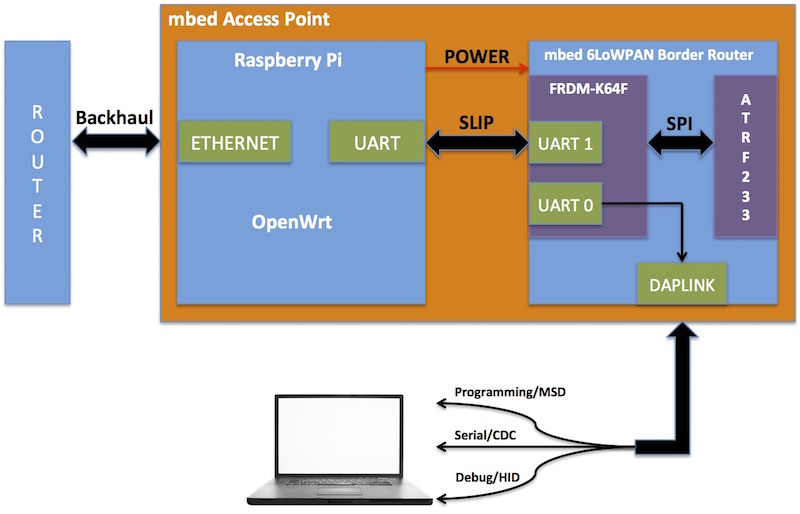
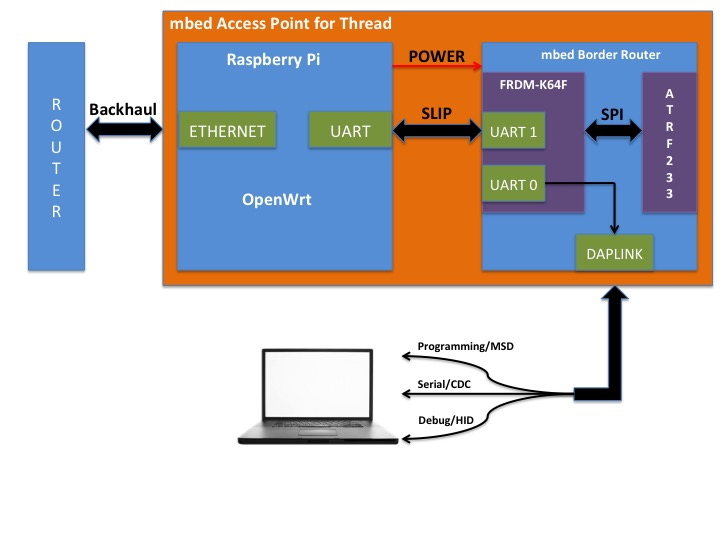
[mbed access point] Added documentation for mbed Access Point for Thread The README.md file is updated and it describes the steps needed to build an mbed Access Point for Thread and Thread network.

diff --git a/README.md b/README.md
@@ -1,10 +1,10 @@
 [//]: # (           Copyright (c) 2016 ARM Limited. All rights reserved.)
 
-# mbed Access Point
+# mbed Access Point for Thread network
 
-mbed Access Point is a wireless access point that manages 6LoWPAN networks. It is a combination of mbed 6LoWPAN Border Router and the Linux Router. It provides the necessary features to integrate a 6LoWPAN network into an IT environment and to cope with existing backhaul networks.   
+mbed Access Point for Thread is a wireless access point that manages Thread networks. It is a combination of mbed 6LoWPAN Border Router (Thread Border Router) and the Linux Router. It provides the necessary features to integrate a Thread network into an IT environment and to cope with existing backhaul networks.   
 
-This document provides instructions on how to build an mbed Access Point based on Raspberry Pi 2B and the [mbed 6LoWPAN Border Router](https://github.com/ARMmbed/k64f-border-router).
+This document provides instructions on how to build an mbed Access Point for Thread based on Raspberry Pi 2B and the mbed 6LoWPAN Border Router.
 
 You can:
 
@@ -13,13 +13,11 @@ You can:
 
 ## The architecture
 
-The architecture described in this document consists of two embedded boards, an mbed 6LoWPAN Border Router and a Linux Router. The motivation behind this two-board design is to achieve a mesh-agnostic mbed Access Point. With this approach it is possible to build an mbed Access Point either based on a [Thread](https://www.threadgroup.org/) or a 6LoWPAN Border Router with no (or minimal) changes to the Linux Router.
+The architecture described in this document consists of two embedded boards, an mbed 6LoWPAN Border Router and a Linux Router. The motivation behind this two-board design is to achieve a mesh-agnostic mbed Access Point. This approach enables us to build an mbed Access Point either based on a [Thread](https://www.threadgroup.org/) or a 6LoWPAN Border Router.
 
-The Border (or Edge) Router is an IPv6 router that routes between regular and 6LoWPAN network segments. 6LoWPAN is designed for highly constrained IP networking, where bandwidth or energy is in short supply. Consequently the Border Router has some additional functionality to translate between the two domains.
+The Thread Border Router is an IPv6 router that routes between regular and Thread network segments. Thread is designed for highly constrained IP networking, where bandwidth or energy is in short supply. Consequently the Thread Border Router has some additional functionality to translate between the two domains.
 
 The Linux Router is a resource-rich device capable of running Linux or a Linux-like operating system. It provides features typically expected by IT administrators, like VLAN support, authentication and authorization services, network management and logging, tunneling support, firewall and wireless mesh network management.
-
-
 
 ## Hardware components
 The figure below provides an overview of the mbed Access Point hardware components:
@@ -30,10 +28,9 @@ You will need:
 
 
 1. Raspberry Pi 2B (Linux Router).
-1. [mbed 6LoWPAN Border Router HAT](https://developer.mbed.org/components/mbed-6LoWPAN-Border-Router-HAT/).
-1. SD card.
-1. Serial-to-USB converter – to monitor and communicate with the mbed 6LoWPAN Border Router.
-1. HDMI cable.
+1. [mbed 6LoWPAN Border Router HAT](https://developer.mbed.org/platforms/mbed-6LoWPAN-Border-Router-HAT/).
+1. Micro-USB cable.
+1. Mirco-SD card.
 1. Ethernet cable.
 
 <span class="images">![](images/mbedap-raspberry-pi-mbed-border-router.jpg)</span>
@@ -52,12 +49,11 @@ We've all the hardware components needed. Let's start building our mbed Access P
 
 The pre-built image for Raspberry Pi 2B contains the necessary modules and packages to convert a Raspberry Pi into an OpenWrt-based Linux Router.
 
-The current version of mbed Access Point requires IPv6 support in backbone network to setup end-to-end communication (6LoWPAN end nodes to [mbed Device Connector](https://connector.mbed.com/)), as tunneling support is not yet available. However, the image includes a default LAN network prefix, which will be used if your backbone network only supports IPv4; it creates an isolated LAN network based on an [ULA](https://tools.ietf.org/html/rfc4193) prefix `fd00:db80::/64`, so you can set up a 6LoWPAN network without IPv6 support. In this configuration, 6LoWPAN end nodes can only exchange packets with mbed Access Point.
+The current version of mbed Access Point requires IPv6 support in backbone network to setup end-to-end communication (Thread end nodes to [mbed Device Connector](https://connector.mbed.com/)), as tunneling support is not yet available. However, the image includes a default LAN network prefix, which will be used if your backbone network only supports IPv4; it creates an isolated Thread network based on an [ULA](https://tools.ietf.org/html/rfc4193) prefix `fd00:db80::/64`, so you can set up a Thread network without IPv6 support. The limitation in this configuration is that the Thread end nodes can only talk with mbed Access Point.
 
-1. Download the mbed Access Point [image](https://s3-eu-west-1.amazonaws.com/arm-mbed-access-point-rpi-image/openwrt-r49388-brcm2708-bcm2709-rpi-2-ext4-sdcard.img).
-1. Install the image on an SD card. This [link](https://www.raspberrypi.org/documentation/installation/installing-images/) provides step by step instructions.
-1. Insert the SD card into the Raspberry Pi's SD card slot.
-1. Attach the Raspberry Pi HAT to the Raspberry Pi, so that it fits firmly on top of the GPIO headers.
+1. Download the mbed Access Point [image](https://s3-eu-west-1.amazonaws.com/arm-mbed-access-point-rpi-image/openwrt-g8996865-brcm2708-bcm2709-rpi-2-ext4-sdcard.img).
+1. Install the image on a mirco-SD card. This [link](https://www.raspberrypi.org/documentation/installation/installing-images/) provides step by step instructions.
+1. Insert the mirco-SD card into the Raspberry Pi's mirco-SD card slot.
 
 ### Generating an image from source
 
@@ -77,14 +73,13 @@ Use V=s for verbose build log:
 make V=s
 ```
 1. The generated image (.img file) is located in the directory ``./bin/brcm2708/``.
-1. Install the image on an SD card. This [link](https://www.raspberrypi.org/documentation/installation/installing-images/mac.md) provides step by step instructions.
-1. Insert the SD card into the Raspberry Pi's SD card slot.
-1. Attach the Raspberry Pi HAT to the Raspberry Pi, so that it fits firmly on top of the GPIO headers.
+1. Install the image on a mirco-SD card. This [link](https://www.raspberrypi.org/documentation/installation/installing-images/mac.md) provides step by step instructions.
+1. Insert the mirco-SD card into the Raspberry Pi's mirco-SD card slot.
 
 ## Prepare the mbed 6LoWPAN Border Router
 
 ### The DAPLink interface
-[The mbed 6LoWPAN Border Router HAT](https://developer.mbed.org/components/mbed-6LoWPAN-Border-Router-HAT/) contains a DAPLINK interface that connects to the host computer over USB
+[The mbed 6LoWPAN Border Router HAT](https://developer.mbed.org/platforms/mbed-6LoWPAN-Border-Router-HAT/) contains a DAPLINK interface that connects to the host computer over USB
 and provides the following interfaces:
 
 1. HID interface: a driver-less HID interface that provides a channel over which the CMSIS-DAP debug protocol runs. This enables all the industry-standard toolchains to program and debug the target system.
@@ -96,33 +91,14 @@ More information can be found at [DAPLINK](https://developer.mbed.org/handbook/D
 
 ___Getting the binary___
 
-The binary for the mbed 6LoWPAN Border Router with default configuration is available [here](https://s3-eu-west-1.amazonaws.com/mbed-6lowpan-border-router-image/k64f-border-router.bin).
-
-The paragraphs Configuring and Building describes the procedure to build the binary with different wireless network configuration. You can skip these paragraphs to use default wireless network configuration.
-
-___Configuring___
-
-The configuration for mbed 6LoWPAN Border Router is located in the file ``mbed_app.json`` in the root directory.
-
-Use the following configuration:
-```javascript
-"backhaul-driver": "SLIP"
-"slip_hw_flow_control": "true"
-```
-
-___Building___
-
-
-**Note:** Before building the binary: In the file `.\atmel-rf-driver/source/driverAtmelRFInterface.h`, change `#define PIN_SPI_RST D5` to `#define PIN_SPI_RST PTD4`.
-
-Build the binary. Instructions are available [here](https://github.com/ARMmbed/k64f-border-router).
+Get the Thread Border Router binary with default configuration (RF channel = 26) is available [here](https://s3-eu-west-1.amazonaws.com/mbed-thread-border-router/thread-testapp-private_gf755f92.bin).
 
 ___Installing___
 
-1. The mbed 6LoWPAN Border Router is powered by the 3.3v rail available on the GPIO headers. This means we need to power up the Raspberry Pi to power up the mbed 6LoWPAN Border Router:
-    1. Power up the Raspberry Pi.
-    1. Program your binary on the mbed 6LoWPAN Border Router using drag and drop. Wait till the red LED stops blinking to ensure that programming is complete.
-    1. Switch-off the Raspberry Pi.
+1. Connect the mbed 6LoWPAN Border Router to laptop using micro-USB cable.
+1. Ensure that the blue jumper (RESET-EN) is in off position.
+1. Program your binary on the mbed 6LoWPAN Border Router using drag and drop. Wait till the red LED stops blinking to ensure that programming is complete.
+1. Attach the mbed 6LoWPAN Border Router to the Raspberry Pi, so that it fits firmly on top of the GPIO headers.
 
 **Note** mbed 6LoWPAN Border Router will be held in reset either until LAN interface on RPi is up and has a  global IPv6 addresses, or for a maximum of 20 seconds.
 
@@ -132,13 +108,15 @@ It is possible to communicate with mbed Access Point either using SSH or Web GUI
 
 ___Identifying the IP address___
 
-It is essential to identify the IP address of mbed Access Point in order to access it. You can choose either of the following methods:
+It is essential to identify the IP address of mbed Access Point in order to communicate with it. You can choose either of the following methods:
 
 Method 1:
 
-1. Connect the Raspberry Pi to the network over Ethernet and to a screen over HDMI.
-1. Power on the Raspberry Pi.    
-1. The IPv4 address of the mbed Access Point will be displayed on the screen.
+1. Power on the Raspberry Pi.
+1. Wait till the red led on the Raspberry Pi stabilizes and stops blinking.
+1. Power off the Raspberry Pi and remove the mirco-SD card.
+1. Insert the micro-SD card into the laptop using micro-SD to SD card adapter
+1. The SD card will be mounted automatically. The file "ip_address.txt" in the mounted volume contains the ip address of the mbed Access Point.
 
 Method 2:
 
@@ -148,7 +126,7 @@ Method 2:
 
 ___Using SSH___
 
-1. Secure shell `ssh` can be used to access your mbed Access Point remotely.
+1. Secure shell `ssh` can be used to access mbed Access Point remotely.
 ```
 ssh root@<mbed ap ip address>
 ```
@@ -163,11 +141,11 @@ Use root user credentials to log in and access the mbed Access Point using LuCI 
 If you have followed all the instructions correctly then you should have an mbed Access Point capable of managing a 6LoWPAN network. The next step is to perform basic tests to ensure network connectivity between the Linux Router and the mbed 6LoWPAN Border Router.
 
 ### Backbone network with IPv4 support only
-As described before, if your backbone network only supports IPv4, then ULA addresses are used to setup 6LoWPAN network. Due to this, the scope of 6LoWPAN traffic is limited to mbed Access Point, as the ULA addresses are not routable over the Internet. However, the mbed Access Point can reach the mbed 6LoWPAN Border Router and end nodes.
+As described before, if your backbone network only supports IPv4, then ULA addresses are used to setup Thread network. Due to this, the scope of Thread traffic is limited to mbed Access Point, as the ULA addresses are not routable over the Internet. However, the mbed Access Point can reach the mbed 6LoWPAN Border Router (or Thread Border Router) and end nodes.
 
-Let us try to ping the mbed 6LoWPAN Border Router from the Linux Router.
+Let us try to ping the Thread Border Router from the Linux Router.
 
-1. Power up the Raspberry Pi and wait until both the Raspberry Pi and the mbed 6LoWPAN Border Router are up.
+1. Power up the Raspberry Pi and wait until both the Raspberry Pi and the Thread Border Router are up.
 1. Log in to Raspberry Pi (Linux Router) using SSH:
 ```
 ssh root@<mbed access point ip address>
@@ -175,48 +153,119 @@ ssh root@<mbed access point ip address>
 1. Run the `ifconfig` command and ensure that link-local and unique local address are set on the LAN (sl0) interface:
 ```
 sl0       Link encap:UNSPEC  HWaddr 00-00-00-00-00-00-00-00-00-00-00-00-00-00-00-00  
-          inet addr:192.168.1.1  P-t-P:192.168.1.1  Mask:255.255.255.0
-          inet6 addr: fe80::7077:7805:29b8:6903/64 Scope:Link
+          inet addr:10.99.99.1  P-t-P:10.99.99.1  Mask:255.255.255.0
+          inet6 addr: fe80::669f:f10:87d:3050/64 Scope:Link
           inet6 addr: fd00:db80::1/64 Scope:Global
           UP POINTOPOINT RUNNING NOARP MULTICAST  MTU:1500  Metric:1
-          RX packets:0 errors:0 dropped:0 overruns:0 frame:0
-          TX packets:14 errors:0 dropped:0 overruns:0 carrier:0
+          RX packets:7 errors:0 dropped:0 overruns:0 frame:0
+          TX packets:13 errors:0 dropped:0 overruns:0 carrier:0
           collisions:0 txqueuelen:10
-          RX bytes:0 (0.0 B)  TX bytes:1888 (1.8 KiB)
+          RX bytes:464 (464.0 B)  TX bytes:1680 (1.6 KiB)
 ```
 1. Run `ip -6 route show` and ensure that the routing table has an entry to route packets through the LAN (sl0) interface:
 ```
 fd00:db80::/64 dev sl0  proto static  metric 1024  pref medium
 fe80::/64 dev sl0  proto kernel  metric 256  pref medium
 ```
-1. Connect the mbed 6LoWPAN Border Router to your laptop using a USB cable.
-1. To monitor logs form the border router, you can use terminal utilities like Minicom or PuTTY. Make sure the terminal utility is set to 115200 baud rate and 8N1.
-1. Start a terminal application to monitor the logs from the router.
-1. The mbed 6LoWPAN Border Router will use the router advertisements sent by the Linux Router to generate IPv6 addresses for both the backhaul and radio interfaces. The addresses are printed to the logs, which can be seen on the terminal application:
+1. Connect the Thread Border Router to your laptop using a mirco-USB cable.
+1. To monitor logs form the Thread border router, you can use terminal utilities like Minicom or PuTTY. Make sure the terminal utility is set to 115200 baud rate and 8N1.
+1. Start a terminal application to monitor the logs from the Thread Border Router.
+1. The Thread Border Router will use the router advertisements sent by the Linux Router to generate IPv6 addresses for both the backhaul and radio interfaces. Wait till the bootstrap is complete.
+
 ```
-[DBG ][brro]: Backhaul bootstrap started
-[DBG ][brro]: Backhaul bootstrap ready, IPv6 = fd00:db80::2042:adff:fea2:4db9
-[DBG ][brro]: Backhaul interface addresses:
-[DBG ][brro]:    [0] fe80::2042:adff:fea2:4db9
-[DBG ][brro]:    [1] fd00:db80::2042:adff:fea2:4db9
-[DBG ][brro]: Using 24GHZ radio, type = 2, channel = 12
-[DBG ][brro]: RF bootstrap ready, IPv6 = fd00:db80::ff:fe00:face
-[DBG ][brro]: RF interface addresses:
-[DBG ][brro]:    [0] fe80::ff:fe00:face
-[DBG ][brro]:    [1] fe80::fec2:3d00:3:29f4
-[DBG ][brro]:    [2] fd00:db80::ff:fe00:face
+   _   ___ __  __               _            _  ___  ___
+  /_\ | _ \  \/  |  ___   _ __ | |__  ___ __| |/ _ \/ __|
+ / _ \|   / |\/| | |___| | '  \| '_ \/ -_) _` | (_) \__
+/_/ \_\_|_\_|  |_|       |_|_|_|_.__/\___\__,_|\___/|___/
+
+/> I'm Thread (Border) Router
+[DBG ][cApp]: cmd tasklet init
+[DBG ][cApp]: network_event_handler-ARM_LIB_TASKLET_INIT_EVENT
+[DBG ][cApp]: cmdline_event-ARM_LIB_TASKLET_INIT_EVENT
+mesh0 bootstrap ongoing..
+eth0 ready
+Ethernet (eth0) bootstrap ready. IP: fd00:db80::6407:8f79:ef5d:2052
+Bootstrap ready
+/>
 ```
+
+1. The Thread Border Router offers command-line like interface to enter the commands. Type in `ifconfig` in the terminal utility. You should see following output:
+
+```
+/>ifconfig
+Interface tun0:
+
+  State:               None
+
+
+interface eth0:
+
+  State:               CONNECTED
+  Metric:              0
+  MAC-48:              4a:47:97:f5:e0:82
+                                          IPv6 if addr:
+   role[0]: fe80::4847:97ff:fef5:e082
+   role[1]: fd00:db80::6407:8f79:ef5d:2052
+
+Interface mesh0:
+  State:               CONNECTED
+  Metric:              1000
+  Mode:                Router
+  Extension:           6LoWPAN Thread with MLE Attached
+  Bootstrap retries:   0
+  MAC:                 fc:c2:3d:00:00:03:11:ee
+  br-ula-prefix:       fd:00:0d:b8:00:00:00:00
+  radio type:          2.4GHz
+  channel page:        0
+  |-channel(s):        16,
+  Thread device configuration
+      Company:ARM ltd Model:MbedOS Ver:(1.1)
+  |-EUI64:               fc:c2:3d:00:00:03:11:ee
+  |-PSKd:                threadjpaketest
+  |-provisioning-url:    Not set
+  |-max Child count:     32
+  |-Downgrade Threshold: 23
+  |-Upgrade Threshold:   16
+  |-Reed advertisement interval:   570, 60
+  Static thread network config
+  |-networkid:         Arm Powered Core..
+  |-PSKc:              74:68:72:65:61:64:6a:70:61:6b:65:74:65:73:74:00
+  |-ML-ULA-prefix:     fd:00:0d:b8:00:00:00:00
+  |-ML-EID:            fc:c7:66:d8:d8:52:4d:20
+  |-private_mac:       87:c8:bc:36:d6:f9:0d:7a
+  |-panId:             face
+  |-extended-pan-id:   00:0d:b8:00:00:90:b9:72
+  |-Key:               00:11:22:33:44:55:66:77:88:99:aa:bb:cc:dd:ee:ff
+    |-rotation:        3600
+    |-seq-counter:     0
+  |-Security Policy:   255
+  |-Channel:           16
+  |-link-timeout:      240 s.
+  |-timestamp:         0
+  MAC 16-bit:          00:00
+  MAC 64-bit:          87:c8:bc:36:d6:f9:0d:7a
+  IID:                 85:c8:bc:36:d6:f9:0d:7a
+  Radio if address
+   [0]: fe80::85c8:bc36:d6f9:d7a
+   [1]: fd00:db8::fcc7:66d8:d852:4d20
+   [2]: fd00:db8::ff:fe00:fc00
+   [3]: fd00:db8::ff:fe00:0
+   [4]: fd00:db8::ff:fe00:fc01
+   [5]: fd00:db80::85c8:bc36:d6f9:d7a
+```
+
+1. The line `role[1]: fd00:db80::6407:8f79:ef5d:2052` indicates the IPv6 address of backhaul interface and the line `[5]: fd00:db80::85c8:bc36:d6f9:d7a` indicates the IPv6 address of radio interface.
 1. Switch to a terminal with an SSH connection to the Linux Router. Try pinging the mbed 6LoWPAN Border Router using the ULA address:
 ```
-ping6 fd00:db80::2042:adff:fea2:4db9    // Pinging backhaul interface
-ping6 fd00:db80::ff:fe00:face           // Piniging radio interface
+ping6 fd00:db80::6407:8f79:ef5d:2052    // Pinging backhaul interface
+ping6 fd00:db80::85c8:bc36:d6f9:d7a     // Piniging radio interface
 ```
 
 ### Backbone network with IPv6 and DHCP-PD support
 If your backbone supports IPv6 and DHCP-PD, then the mbed Access Point will request the global prefix from the backbone router and configure the 6LoWPAN network according to the prefix received.
 
-### Creating a 6LoWPAN Network
-Congratulations!! You have just created an mbed Access Point. It's time to explore the world of 6LoWPAN networks. Follow the instructions described in [mbed-os-example-client](https://github.com/ARMmbed/mbed-os-example-client) to set up 6LoWPAN end nodes.
+### Creating a Thread Network
+Congratulations!! You have just created an mbed Access Point for Thread. It's time to explore the world of Thread networks. Follow the instructions described in [mbed-os-example-client](https://github.com/ARMmbed/mbed-os-example-client) to set up Thread end nodes.
 
 **Tip:** Please ignore the instructions regarding the border router, as it is part of the mbed Access Point.
 
@@ -225,6 +274,6 @@ The end nodes will send LWM2M registration messages to mbed Device Connector.
 **Note:** If your backbone network doesn't support IPv6 then these messages will not be sent out of the mbed Access Point; you should still be able to ping all the end nodes from the mbed Access Point.
 
 
-If you have any questions or would like to start a discussion then please create an issue in the [mbed Access Point GitHub repository](https://github.com/ARMmbed/mbed-access-point).
+If you have any questions or would like to start a discussion then please create an issue in the [mbed Access Point GitHub repository](https://github.com/ARMmbed/mbed-access-point-private).
 
 This work is partially supported by the [Horizon 2020 programme](http://ec.europa.eu/programmes/horizon2020/) of the European Union, under grant agreement number 644332.
